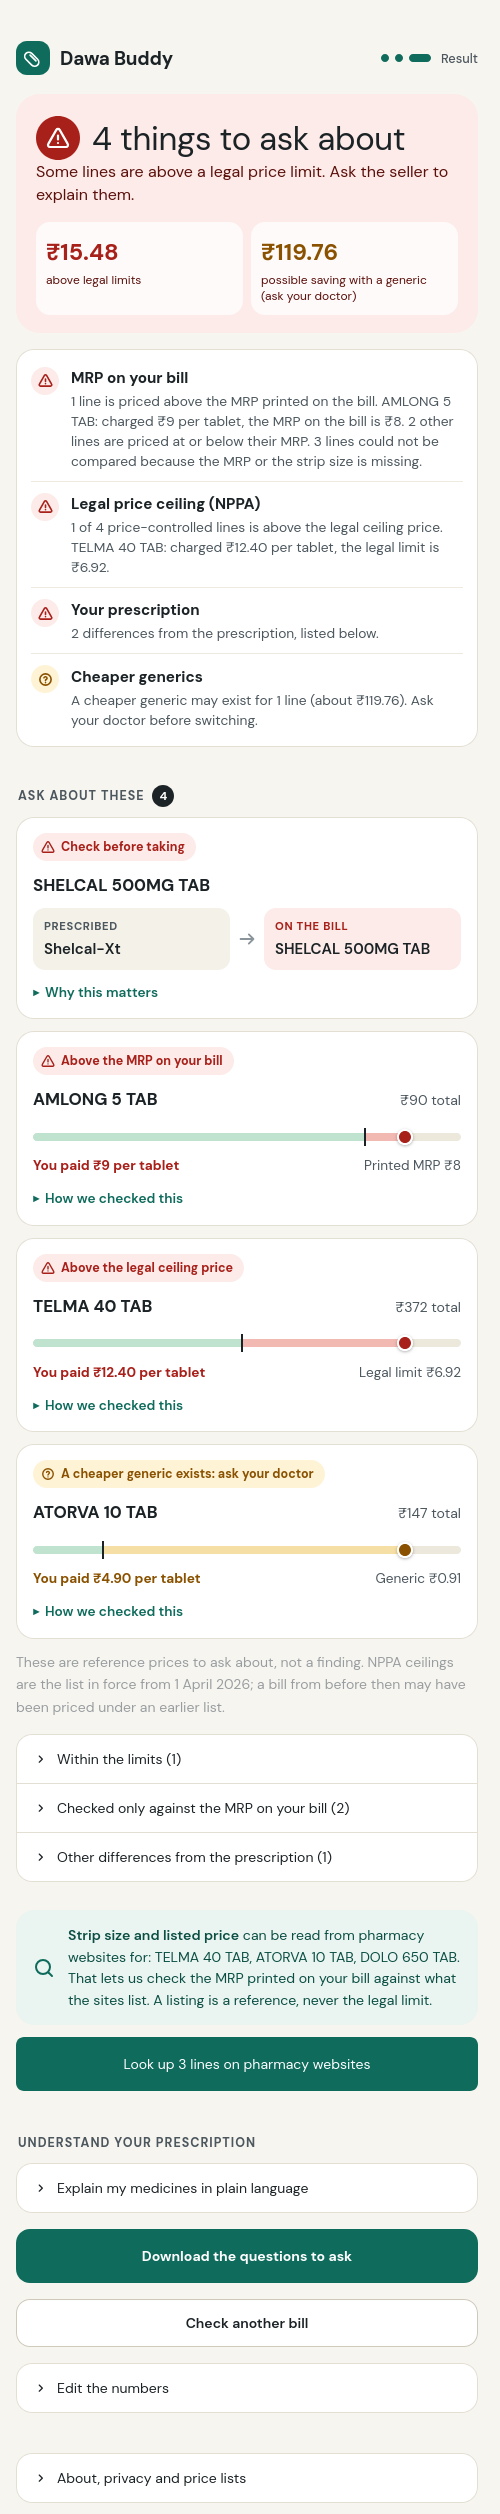
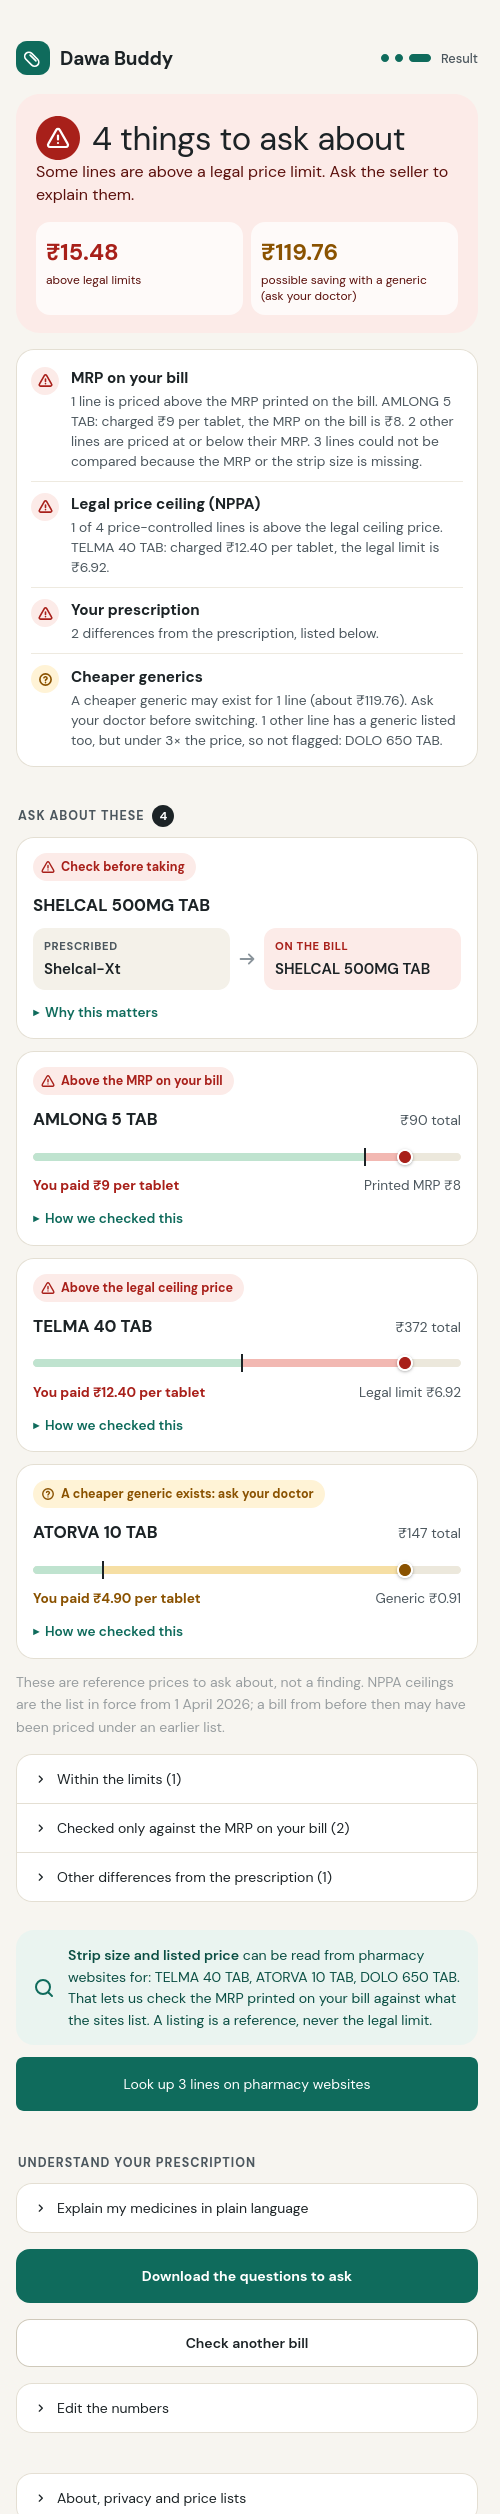
Say out loud when a generic is cheaper but under the 3x flag: checklist names the lines, each line's fold shows the multiple; README row

diff --git a/bill_app.py b/bill_app.py
@@ -486,12 +486,22 @@ def check_rows(fs, flags, wrong, unidentified, generic, listed_ok: int = 0, look
         rows.append(("green", "Your prescription", "The bill matches your prescription: same products, no extras, no missing items."))
     else:
         rows.append(("red" if wrong else "amber", "Your prescription", f"{plural(len(flags), 'difference')} from the prescription, listed below."))
+    mild = [f.line.desc for f in fs if f.tier == b.TIER_OK and mild_generic(f)]
+    mild_text = (f" {plural(len(mild), 'other line' if generic else 'line')} {'has' if len(mild) == 1 else 'have'} a generic listed too, but under {b.GENERIC_GAP_RATIO:g}× the price, "
+                 "so not flagged: " + named(mild) + ".") if mild else ""
     if generic:
         k = sum(f.tier == b.TIER_GENERIC_GAP for f in fs)
-        rows.append(("amber", "Cheaper generics", f"A cheaper generic may exist for {plural(k, 'line')} (about {rupees(generic)}). Ask your doctor before switching."))
+        rows.append(("amber", "Cheaper generics", f"A cheaper generic may exist for {plural(k, 'line')} (about {rupees(generic)}). Ask your doctor before switching." + mild_text))
+    elif mild:
+        rows.append(("grey", "Cheaper generics", "None flagged (we flag a generic at 3× the price or more)." + mild_text))
     if unidentified:
         rows.append(("amber", "Medicines to confirm", f"{plural(len(unidentified), 'medicine')} not identified yet: {', '.join(unidentified)}. Confirm them under “Help us identify”."))
     return rows
+
+
+def mild_generic(f) -> bool:
+    """A line inside every limit whose generic is still clearly cheaper, but under the ratio at which a generic is flagged."""
+    return bool(f.generic_unit and f.unit_price and b.GENERIC_MENTION_RATIO * f.generic_unit <= f.unit_price < b.GENERIC_GAP_RATIO * f.generic_unit)
 
 
 def mini(f) -> str:
@@ -508,6 +518,9 @@ def mini(f) -> str:
         why = f"<br><span class='small'>{html.escape(known + reason + mrp)}</span>"
     elif f.mrp_pct is not None and f.tier == b.TIER_OK:
         why = f"<br><span class='small'>Charged {f.mrp_pct:.0f}% of the MRP on your bill.</span>"
+    if f.tier == b.TIER_OK and mild_generic(f):          # inside the limits, yet a generic is cheaper: say so, and why it was not flagged
+        why += (f"<br><span class='small'>A Jan Aushadhi generic is listed at {rupees(f.generic_unit)} per {PER.get(f.basis, 'unit')}; you paid "
+                f"{f.unit_price / f.generic_unit:.1f}× that. We flag a generic only at {b.GENERIC_GAP_RATIO:g}× or more.</span>")
     rows, foot = transparency.reference(f, rupees, billed_word)
     how = f"<details class='how'><summary>How we checked this</summary>{ui.facts(rows)}</details>" if len(rows) > 1 else ""
     return f"<div class='minibox'><div class='mini'><span class='l'>{html.escape(f.line.desc)}<br><span class='small'>{label}</span>{why}</span><span class='r'>{right}</span></div>{how}</div>"

diff --git a/tests/test_app.py b/tests/test_app.py
@@ -837,3 +837,16 @@ def test_restriction_is_per_visitor_not_global():
     t = threading.Thread(target=other); t.start(); t.join()
     assert llm.restricted() is True and seen["other"] is False                            # another visitor's thread is unaffected
     llm.restrict(False)
+
+
+def test_a_generic_below_the_flag_ratio_is_still_said_out_loud(monkeypatch):
+    # second real bill: Dolo 650 (2.2x the generic) and Monocef O (2.8x) are inside every limit, so they are not flagged, but "within the limits" must not
+    # hide that a generic is listed at under half the price, nor the 3x rule that decided it
+    rows = [("DOLO 650MG TAB", 6, 2.24, 1, 2.24), ("MONOCEF O 200 MG TAB", 6, 19.9, 1, 19.9), ("PAN 40MG TAB", 6, 11.0, 1, 11.0), ("CONCOR 5MG TAB", 20, 12.82, 1, 12.82)]
+    at = _bill_app(monkeypatch, rows)
+    page = html_blocks(at)
+    assert "A cheaper generic may exist for 2 lines" in page                                         # Pan and Concor: flagged
+    assert "2 other lines have a generic listed too, but under 3× the price, so not flagged: DOLO 650MG TAB; MONOCEF O 200 MG TAB" in page
+    assert "We flag a generic only at 3× or more." in page and "you paid 2.2× that" in page          # in the folded row of the line itself
+    only_mild = html_blocks(_bill_app(monkeypatch, rows[:2]))
+    assert "None flagged (we flag a generic at 3× the price or more). 2 lines have a generic listed too" in only_mild

diff --git a/dawa_buddy/bill.py b/dawa_buddy/bill.py
@@ -14,6 +14,7 @@ from .knowledge import BRANDS
 
 GST_ALLOWANCE = 1.12          # ceilings exclude GST; allow the highest medicine slab before flagging
 GENERIC_GAP_RATIO = 3.0       # flag 'ask for generic' when unit price >= 3x the JA benchmark
+GENERIC_MENTION_RATIO = 1.5   # below the flag, but a generic at under two-thirds of the price is still worth saying out loud
 # Switching these needs the prescriber's say-so, so we never nudge a swap.
 DOCTOR_ONLY = {"warfarin", "thyroxine", "phenytoin", "carbamazepine", "valproate", "levetiracetam",
                "tacrolimus", "cyclosporine", "digoxin", "lithium", "clozapine"}

diff --git a/README.md b/README.md
@@ -5,7 +5,7 @@
 **Photograph a pharmacy or hospital bill. Dawa Buddy checks it line by line against India's legal price lists and the doctor's prescription, then tells you exactly what to ask, in English, Hindi or Kannada.**
 
 ![licence: MIT](https://img.shields.io/badge/licence-MIT-green)
-![tests: 280 passing](https://img.shields.io/badge/tests-280%20passing-brightgreen)
+![tests: 281 passing](https://img.shields.io/badge/tests-281%20passing-brightgreen)
 ![Nebius Token Factory](https://img.shields.io/badge/runs%20on-Nebius%20Token%20Factory-1f6feb)
 ![NVIDIA Nemotron](https://img.shields.io/badge/models-NVIDIA%20Nemotron-76b900)
 ![Tavily](https://img.shields.io/badge/web%20evidence-Tavily-7b61ff)
@@ -30,7 +30,7 @@
 ### What a judge should know in one minute
 | Criterion | Short answer | Where to look |
 |---|---|---|
-| **Technological implementation** | Nemotron **Super VL** reads photos, **Lightning** reads prescriptions, **Ultra / Super** write Hindi, all through one Token Factory endpoint. A deterministic rules engine decides every price verdict, so the model can never invent an accusation. 280 tests; 4 evaluation suites. | [§7](#7-architecture), [§8](#8-how-we-use-nebius-nvidia-nemotron-and-tavily), [§10](#10-validation-and-evaluation) |
+| **Technological implementation** | Nemotron **Super VL** reads photos, **Lightning** reads prescriptions, **Ultra / Super** write Hindi, all through one Token Factory endpoint. A deterministic rules engine decides every price verdict, so the model can never invent an accusation. 281 tests; 4 evaluation suites. | [§7](#7-architecture), [§8](#8-how-we-use-nebius-nvidia-nemotron-and-tavily), [§10](#10-validation-and-evaluation) |
 | **Design** | One question per screen, verdict first, a "What we checked" list so a clean bill reads as protection, phone-first, status always colour + icon + words, Hindi and Kannada typography. | [§5](#5-the-product-tour) |
 | **Potential impact** | The Indian government's own court affidavit says patients have "very low bargaining position" and "very limited" knowledge of prices. This tool puts the comparison in the patient's hands at the moment of paying. | [§2](#2-the-problem-with-evidence), [§4](#4-the-idea) |
 | **Quality of the idea** | A *receipt audit*, not a price lookup: it resolves each line to a medicine, strength and form, converts per-tablet, per-strip, per-vial, per-ml and per-piece prices correctly, and reconciles the bill with the prescription (including the wrong *variant* handed over). It is honest about what it cannot see. | [§4](#4-the-idea), [§9](#9-engineering-decisions-and-why) |
@@ -54,7 +54,7 @@ I started with one real prescription and its pharmacy bill, from my own family, 
 
 It was not simple. The prescription said **Shelcal-XT**; the counter had handed over **Shelcal 500**, a different product, and nothing on the bill said so. The bill printed the MRP *per strip* beside a *per-tablet* price, so comparing them needed a tablets-per-strip number that only the strip itself had. A hospital bill listed a saline bag at a price that looked wrong, until I found that NPPA publishes a **second, higher legal ceiling** for "special features" packs, in a separate gazette notification, and that the bag matched it to the paisa. Every one of these checks was possible. Each needed gazette PDFs, a spreadsheet and patience that a family does not have at a hospital discharge counter.
 
-Then the court record caught up with the experience. In October 2026 a Supreme Court bench began asking why a drip line with an MRP of ₹11 was being sold for ₹280, and the Union government told the Court, in an affidavit, that patients have a "very low bargaining position" and "very limited" knowledge of drugs, substitutes and prices. That sentence is the whole problem statement. Dawa Buddy is my attempt to reduce that asymmetry for one patient, with one photo, in under a minute: do the arithmetic and the lookups, say what could not be checked, and phrase every finding as a question to ask, never an accusation.
+Then the court record caught up with the experience. In October 2026 a Supreme Court bench began asking why a drip line with an MRP of ₹11 was being sold for ₹281, and the Union government told the Court, in an affidavit, that patients have a "very low bargaining position" and "very limited" knowledge of drugs, substitutes and prices. That sentence is the whole problem statement. Dawa Buddy is my attempt to reduce that asymmetry for one patient, with one photo, in under a minute: do the arithmetic and the lookups, say what could not be checked, and phrase every finding as a question to ask, never an accusation.
 
 ## 2. The problem, with evidence
 Sources are numbered and listed in [section 19](#19-sources). Dates are as reported.
@@ -63,7 +63,7 @@ Sources are numbered and listed in [section 19](#19-sources). Dates are as repor
 Two bodies of litigation and the government's own filings describe the same pattern.
 
 - **27 October 2026 (yesterday).** A bench of Justices Vikram Nath and Sandeep Mehta heard petitions by advocate Kishan Chand Jain and paediatric surgeon Sanjay Kulshrestha seeking stricter enforcement of the Drugs (Prices Control) Order, 2013. The bench asked how a hospital could charge **₹1.3 lakh for a cancer injection a distributor could procure for ₹11,000** and asked the Centre to justify it [3]. It noted that around **90% of medicines are outside the DPCO's price controls** [3]. Hospitals' counsel argued that capping margins would make hospital operations unviable and push costs onto other charges; the Centre argued for a "calibrated approach" and said complete control is not the answer [2]. **The order is reserved; written submissions are due in two weeks** [2]. The outcome is pending as this README is written.
-- **12 October 2026.** The Centre told the Court it would cap trade margins at 30% on non-scheduled cancer drugs. The bench called that "just the tip of the iceberg" and asked about other products. Justice Mehta cited an **India-made cardiac stent costing about ₹5,000 sold by hospitals for more than ₹25,000**, and **"a saline drip line carrying an MRP of ₹11 being sold for ₹280"** [4]. The Centre's affidavit estimated the cancer-drug cap would cut MRPs by 20% to 70%, saving about ₹2,500 crore a year [4].
+- **12 October 2026.** The Centre told the Court it would cap trade margins at 30% on non-scheduled cancer drugs. The bench called that "just the tip of the iceberg" and asked about other products. Justice Mehta cited an **India-made cardiac stent costing about ₹5,000 sold by hospitals for more than ₹25,000**, and **"a saline drip line carrying an MRP of ₹11 being sold for ₹281"** [4]. The Centre's affidavit estimated the cancer-drug cap would cut MRPs by 20% to 70%, saving about ₹2,500 crore a year [4].
 - **The government's affidavit** (reported 23 October 2026) calls hospitals charging high MRPs for medicines and consumables a **"malpractice"**. It says patients have a "very low bargaining position vis-a-vis the hospital, and the patient's knowledge of drugs, their substitutes and their prices is also very limited". It describes margins of **170% to 700% or more on anti-cancer drugs** and **100% to 1000% or more on consumables**, and notes that for patients paying directly, hospital supplies are **"billed separately at MRP"** [5].
 - **4 March 2025, *Siddharth Dalmia v. Union of India*.** A PIL alleged that private hospitals push patients to buy medicines, implants and devices from in-house pharmacies at higher prices. Its example: an injection sold at an MRP of ₹61,132 while the same company's product was available in the open market at ₹50,000, with one free injection for every four bought that the hospital did not pass on. The bench (Justices Surya Kant and N Kotiswar Singh) left the policy to state governments [6].
 
@@ -140,7 +140,7 @@ Dawa Buddy cannot fix a pricing policy. It can give a patient the numbers the po
 
 | Pattern reported in the Court | What the patient can see | What Dawa Buddy does today | Where it stops |
 |---|---|---|---|
-| **Consumable billed far above its printed MRP** (drip line, MRP ₹11, sold at ₹280) | The MRP on the pack and the billed rate | **Per-piece MRP check.** Flags "Above the MRP on your bill" with the price meter. The *Hospital pharmacy bill* sample reproduces it (IV set, MRP ₹11, billed ₹265). | Needs the MRP read off the pack. It cannot know an MRP it was not given. |
+| **Consumable billed far above its printed MRP** (drip line, MRP ₹11, sold at ₹281) | The MRP on the pack and the billed rate | **Per-piece MRP check.** Flags "Above the MRP on your bill" with the price meter. The *Hospital pharmacy bill* sample reproduces it (IV set, MRP ₹11, billed ₹265). | Needs the MRP read off the pack. It cannot know an MRP it was not given. |
 | **A scheduled drug or injection above its legal ceiling** | Bill rate, strength, form | Converts to per tablet, per vial or per ml and compares with the **NPPA ceiling (911 formulations loaded)** plus a GST allowance. The sample shows two injections above ceiling. | Scheduled medicines only; ceilings as of 1 April 2026. |
 | **Non-scheduled branded drug where the MRP is many times the trade price** (₹2,700 bought, MRP ₹27,000) | Only the MRP | Checks the bill against the printed MRP; compares with the **Jan Aushadhi generic price** where a generic exists (a gap of 3x or more becomes a question *for the doctor*); shows pharmacy-site listings as a reference. | **It cannot see the price to retailer.** The heart of the Court's concern is invisible to the patient, and with no ceiling there is nothing to call illegal. It says so. |
 | **A hospital charging a drug at many times what a distributor pays** (₹11,000 vs ₹1.3 lakh) | MRP and billed rate | Flags only if the bill exceeds the printed MRP; otherwise reports "within the printed MRP" and any generic benchmark. | Same limit: a mark-up *within* MRP is a policy question, not something a bill can prove. |
@@ -314,7 +314,7 @@ All numbers below are reproducible with the commands in [section 13](#13-setup-r
 ### 10.1 Results
 | Check | Result | Caveat |
 |---|---|---|
-| Unit and integration tests | **280 pass** | Includes fake-server tests for the Ollama and Tavily paths and a test that inspects what is sent to Tavily. |
+| Unit and integration tests | **281 pass** | Includes fake-server tests for the Ollama and Tavily paths and a test that inspects what is sent to Tavily. |
 | Brand resolution, 108 real brand lines | **99 correct, 4 missed (safe), 0 wrong.** The curated map alone: 26 correct, 61 missed, 2 wrong (1 reached a price verdict). 14 of 14 supplements, invented and ambiguous names handled safely. | Expected answers were written from pharmaceutical knowledge, **not** copied from the table. A pharmacist should review them. |
 | Bill tier accuracy, 18 synthetic lines (tablets, liquids, injections) | **18 of 18** | Synthetic prices written by the author. |
 | Prescription extraction, 24 synthetic cases | Offline rules F1 **1.00**, live Nemotron F1 **1.00**; safety-flag F1 1.00 / 1.00; 0 invented medicines; median latency 1.33 s | **Saturated**: the rules were tuned on this style of text, so it does not show the model's value. The real-photo comparison does. |
@@ -331,7 +331,7 @@ All numbers below are reproducible with the commands in [section 13](#13-setup-r
 
 ### 10.2 Reproduce
 ```bash
-pytest -q tests                                   # 280 tests
+pytest -q tests                                   # 281 tests
 python -m evals.run_bill_evals                    # 18 synthetic bill lines, tier accuracy
 python -m evals.run_brand_evals [--verbose]       # 108 brand lines: correct / missed / wrong
 python -m evals.run_evals --out evals/results.md  # 24 synthetic prescriptions, live model
@@ -372,7 +372,8 @@ Synthetic tests passed long before real documents did. These are the failures re
 | Two more real bills (29 Oct 2026): one prints the MRP per tablet with tax included, one prints two values in each cell (quantity over discount, MRP over net rate) and the maker's name under each item. The reader took the pre-tax "Taxable" column as the line amount, left the maker in the item name, and the audit priced "ACECLOFENAC + PARACETAMOL" as plain paracetamol and flagged it above its ceiling, which was a false accusation. "LOX 2% JELLY" was looked up in the tablet list, so its ingredient was never found, even with web search. | The photo prompt now says the amount is the tax-inclusive line value and never the Taxable column; the maker/HSN text is stripped from names; a per-tablet MRP is converted so it is never divided by a strip size; a unit is inferred when the name states the form (SYP, JELLY). A name listing several ingredients is never priced as one, and a brand name followed by its composition is looked up by the brand part alone. The form detector now knows "jelly". Four new tests; the old bills still audit the same. |
 | The same two bills showed that fixing one layout at a time does not scale: a new column order would break the reader again. | The reader now returns every number in each row; code (not the model) finds the quantity, price and line value that multiply out, makes the lines add up to the printed total, prefers the tax-inclusive value, works a missing price out as value over quantity, and tells a per-tablet MRP from a per-strip one by size. A model-free test suite pins each rule. **`scripts/synth_bills.py`** draws ten invented bills in different layouts (per-tablet and per-strip MRP, split tax, stacked cells, a discount column, scrambled headers, no rate column, a tilted blurred photo): **49 of 49 rows read right**. That is a stress test of layouts that I tuned against, not an accuracy figure for real bills. | Invalid JSON from the model (a batch code listed among the numbers) is repaired and retried once, so it cannot end a patient's session. |
 | A printed MRP is the seller's own figure. "Charged within the MRP on the bill" only proves the bill agrees with itself: a seller who prints an inflated MRP and charges it would pass, and the result called that MRP "printed on the pack". | The wording now says **the MRP on your bill** everywhere and what that does and does not prove. Lines whose only comparison is the bill's own MRP sit in their own group ("Checked only against the MRP on your bill"), not in "Within the limits". The downloaded questions add **"Check the MRP on the strip"**. After a photo is read, the result looks the lines up once on pharmacy websites by itself (Tavily; never for the samples, never for a locked visitor), because the listings are the only independent check on an MRP: on the second real bill, listings were found for **4 of 4 lines**, and the row says "pharmacy websites list a consistent MRP for 4 lines". | The check is only as good as the listings: a stale low listing cannot raise an alarm (the highest listed MRP is the reference), and an MRP can differ by batch, so it is always a question, never a finding. |
-| The Supreme Court's headline example (a ₹11 consumable billed at ₹280) was caught only if the user chose a unit; consumables had no "per piece" option. | Added **per piece** with a direct MRP comparison, plus a test and the hospital sample line. Found by reading the court coverage against the app, on 28 October. |
+| On the second real bill, two lines had a Jan Aushadhi generic at under half their price (Dolo 650 at 2.2×, Monocef O at 2.8×) and read "within the limits", while two others (8× and 9×) were flagged. The 3× flag is deliberate, to avoid nagging about an ordinary brand premium, but the app never said so, so it looked inconsistent. | A generic at 1.5× to under 3× the price is no longer flagged but is no longer silent: the checklist says "None flagged (we flag a generic at 3× the price or more)" and names those lines, and each line's fold says what the generic costs and what multiple you paid. | The threshold is a judgement, not a rule of law; it is a named constant (`GENERIC_GAP_RATIO`) and shown to the user. |
+| The Supreme Court's headline example (a ₹11 consumable billed at ₹281) was caught only if the user chose a unit; consumables had no "per piece" option. | Added **per piece** with a direct MRP comparison, plus a test and the hospital sample line. Found by reading the court coverage against the app, on 28 October. |
 
 ## 11. How it meets the requirements
 | Req | How it is met | Evidence |
@@ -548,11 +549,11 @@ Accessed 28 October 2026 unless noted. Figures in the news reports are as report
 2. The Hindu, "SC says 'economic policy' cannot take precedence over lives as Centre backs 'calibrated' drug-price controls", 27 Oct 2026. https://www.thehindu.com/news/national/sc-says-economic-policy-cannot-take-precedence-over-lives-as-centre-backs-calibrated-drug-price-controls/article71631892.ece
 3. ThePrint, "'Not through this dacoity': SC questions Rs 1.3 lakh hospital charge for Rs 11,000 cancer injection", 27 Oct 2026. https://theprint.in/health/not-through-this-dacoity-sc-questions-rs-1-3-lakh-hospital-charge-for-rs-11000-cancer-vaccine/3083192/
 4. The Hindu, "Supreme Court wants cap on trade margin for all essential medicines and medical products", 12 Oct 2026 (updated 17 Oct). https://www.thehindu.com/sci-tech/health/supreme-court-wants-cap-on-trade-margin-for-all-essential-medicines-and-medical-products/article71575807.ece
-5. Times of India, "Hospitals 'overcharging' is a malpractice: Govt to Supreme Court", 23 Oct 2026. https://timesofindia.indiatimes.com/india/hospitals-overcharging-is-a-malpractice-govt-to-supreme-court/articleshow/135128060.cms
+5. Times of India, "Hospitals 'overcharging' is a malpractice: Govt to Supreme Court", 23 Oct 2026. https://timesofindia.indiatimes.com/india/hospitals-overcharging-is-a-malpractice-govt-to-supreme-court/articleshow/135128160.cms
 6. PTI via ET Pharma, "Policy decisions by states needed to protect patients from being fleeced by pharmacies at private hospitals: SC", 5 Mar 2025. https://pharma.economictimes.indiatimes.com/news/policy-and-regulations/policy-decisions-by-states-needed-to-protect-patients-from-being-fleeced-by-pharmacies-at-private-hospitals-sc/118721289
 7. The Hindu (Data Point), "₹8,447 crore in medicine overcharging claims remain outstanding as SC seeks wider price controls", 22 Oct 2026, citing NPPA and NSS Report no. 596 (Household Social Consumption: Health, 2025). https://www.thehindu.com/data/8447-crore-in-medicine-overcharging-claims-remain-outstanding-as-sc-seeks-wider-price-controls/article71607884.ece
 8. National Health Systems Resource Centre, National Health Accounts Estimates for India 2022-23. https://nhsrcindia.org/sites/default/files/2026-05/NHA%202022-23%20Report.pdf
-9. PIB, "NPPA Integrates Pharma Jan Samadhan Portal with Pharma Sahi Daam Portal", 25 Jun 2026. https://www.pib.gov.in/PressReleasePage.aspx?PRID=2280731&reg=48&lang=1
+9. PIB, "NPPA Integrates Pharma Jan Samadhan Portal with Pharma Sahi Daam Portal", 25 Jun 2026. https://www.pib.gov.in/PressReleasePage.aspx?PRID=2281731&reg=48&lang=1
 10. NPPA, Pharma Sahi Daam. https://nppa.gov.in/pharma_sahi_daam
 11. Consumer Awareness Group, "Maximum Retail Price (MRP) and Over-Charging". https://www.cag.org.in/blogs/maximum-retail-price-mrp-and-over-charging
 12. Legal 500, "NPPA Revises The Ceiling Price Of Coronary Stent" (the February 2017 cap, up to 85%). https://www.legal500.com/intelligence/india/food-drugs-healthcare-life-sciences/nppa-revises-the-ceiling-price-of-coronary-stent
@@ -581,6 +582,6 @@ dawa_buddy/
 data/                       Price lists, brand table, overrides, NOTICE.md
 scripts/                    audit_bill, read_photos, check_nebius, NPPA PDF parsers, brand-table builder, review-pack builder (markdown), review-sheet builder (xlsx for reviewers: one row per phrase, a verdict dropdown)
 evals/                      Gold sets and runners
-tests/                      280 tests
+tests/                      281 tests
 my_data/                    Your private bills and prescriptions (git-ignored)
 ```
